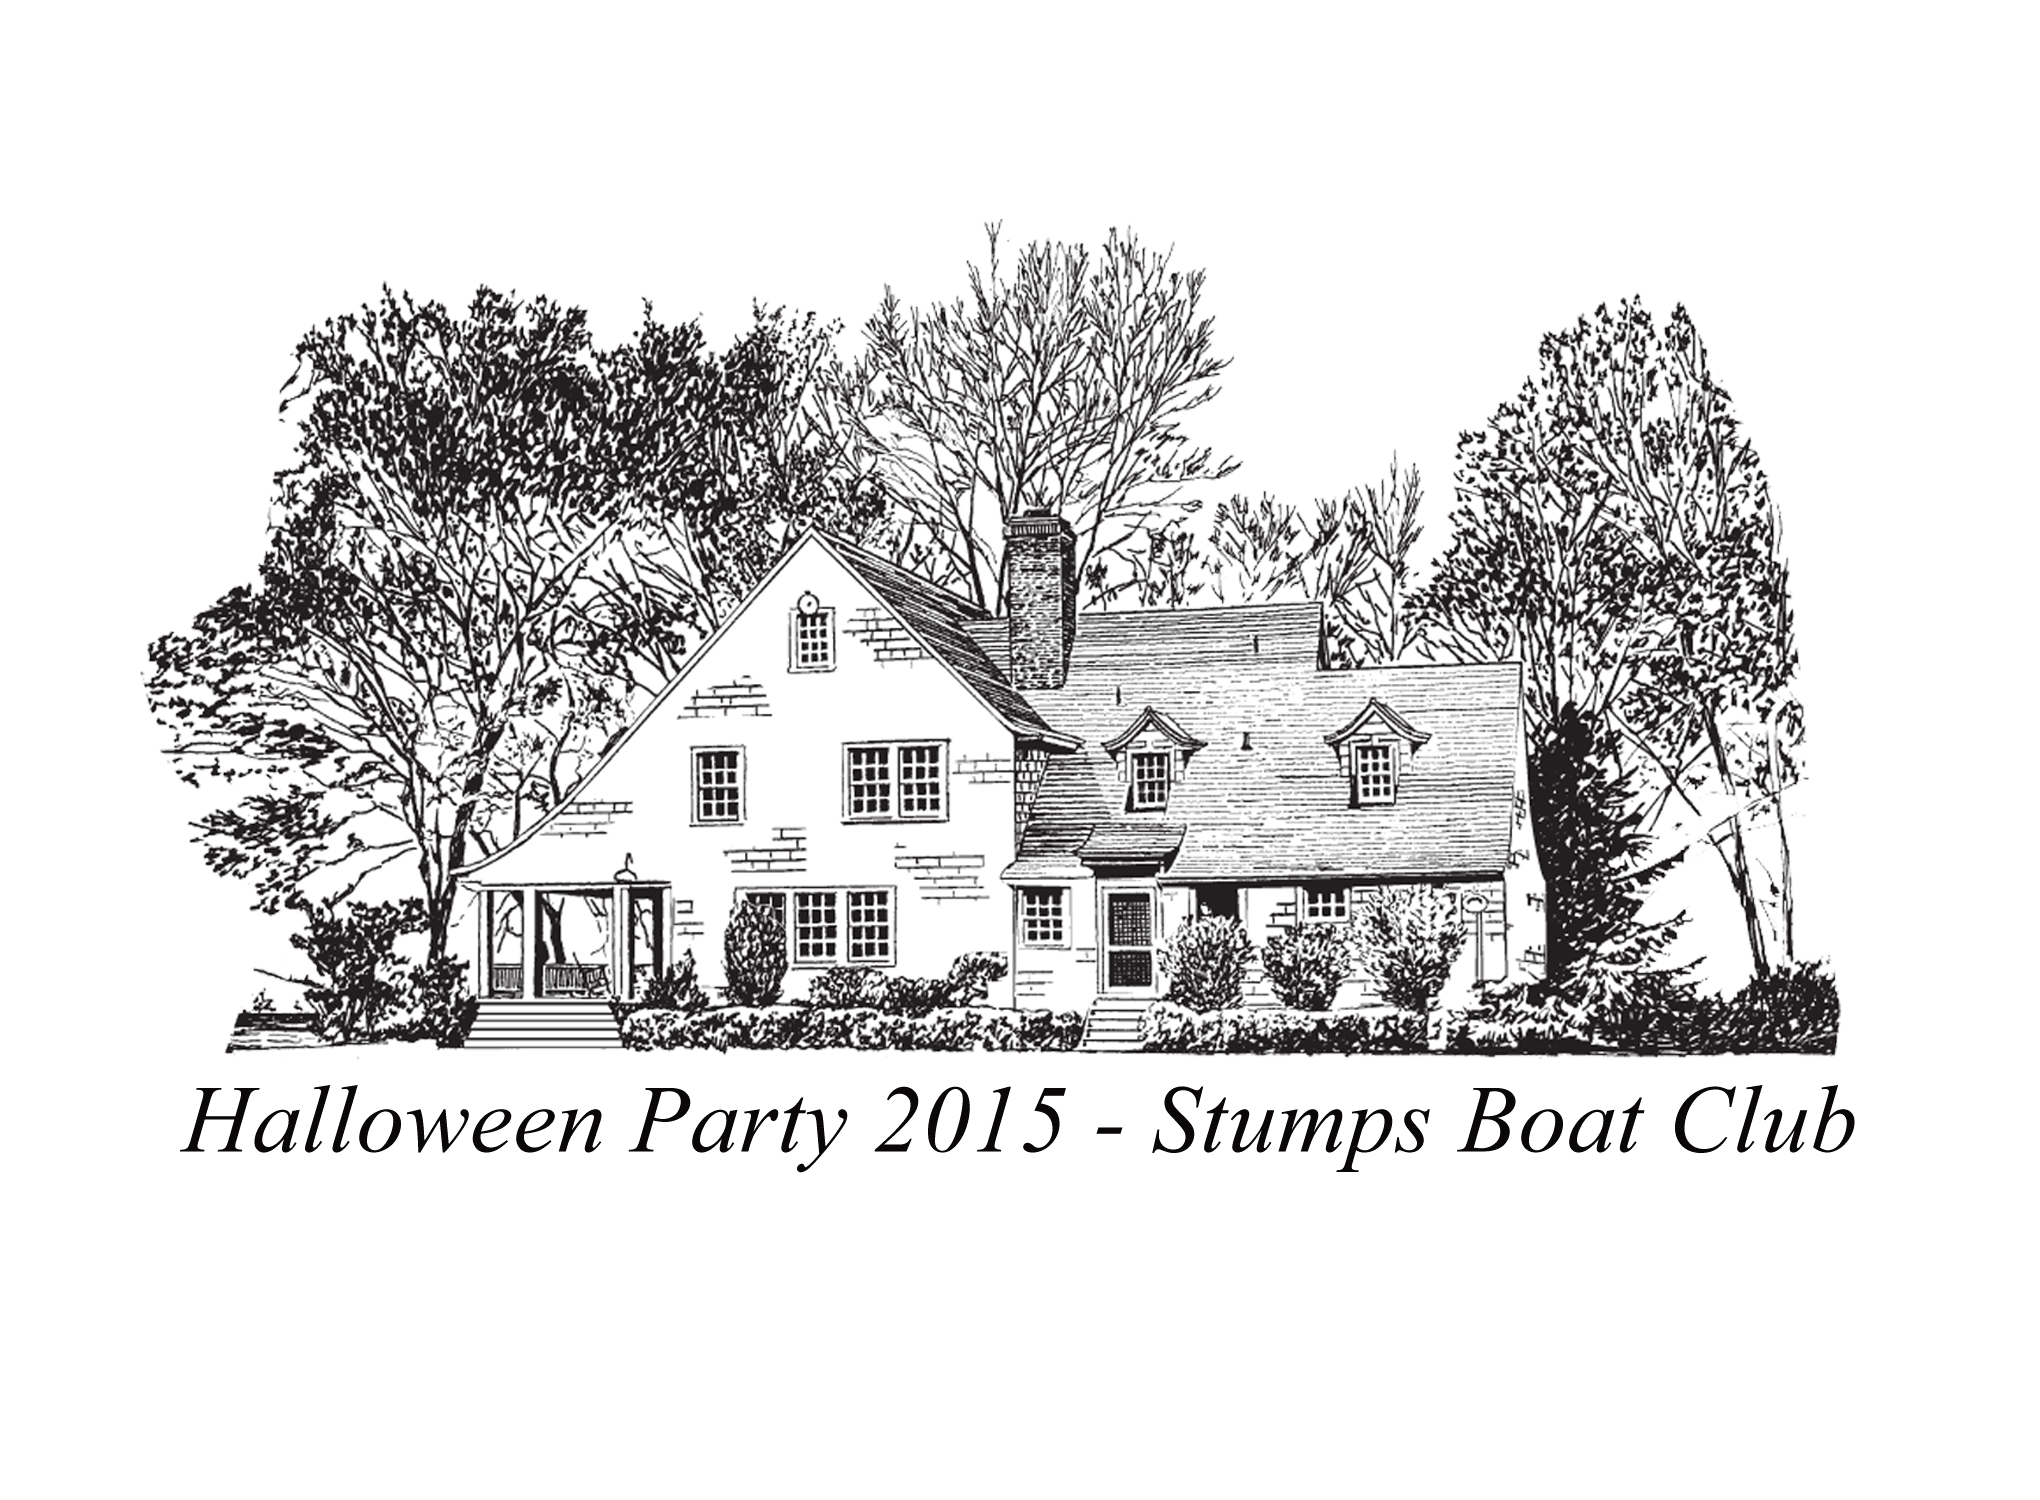
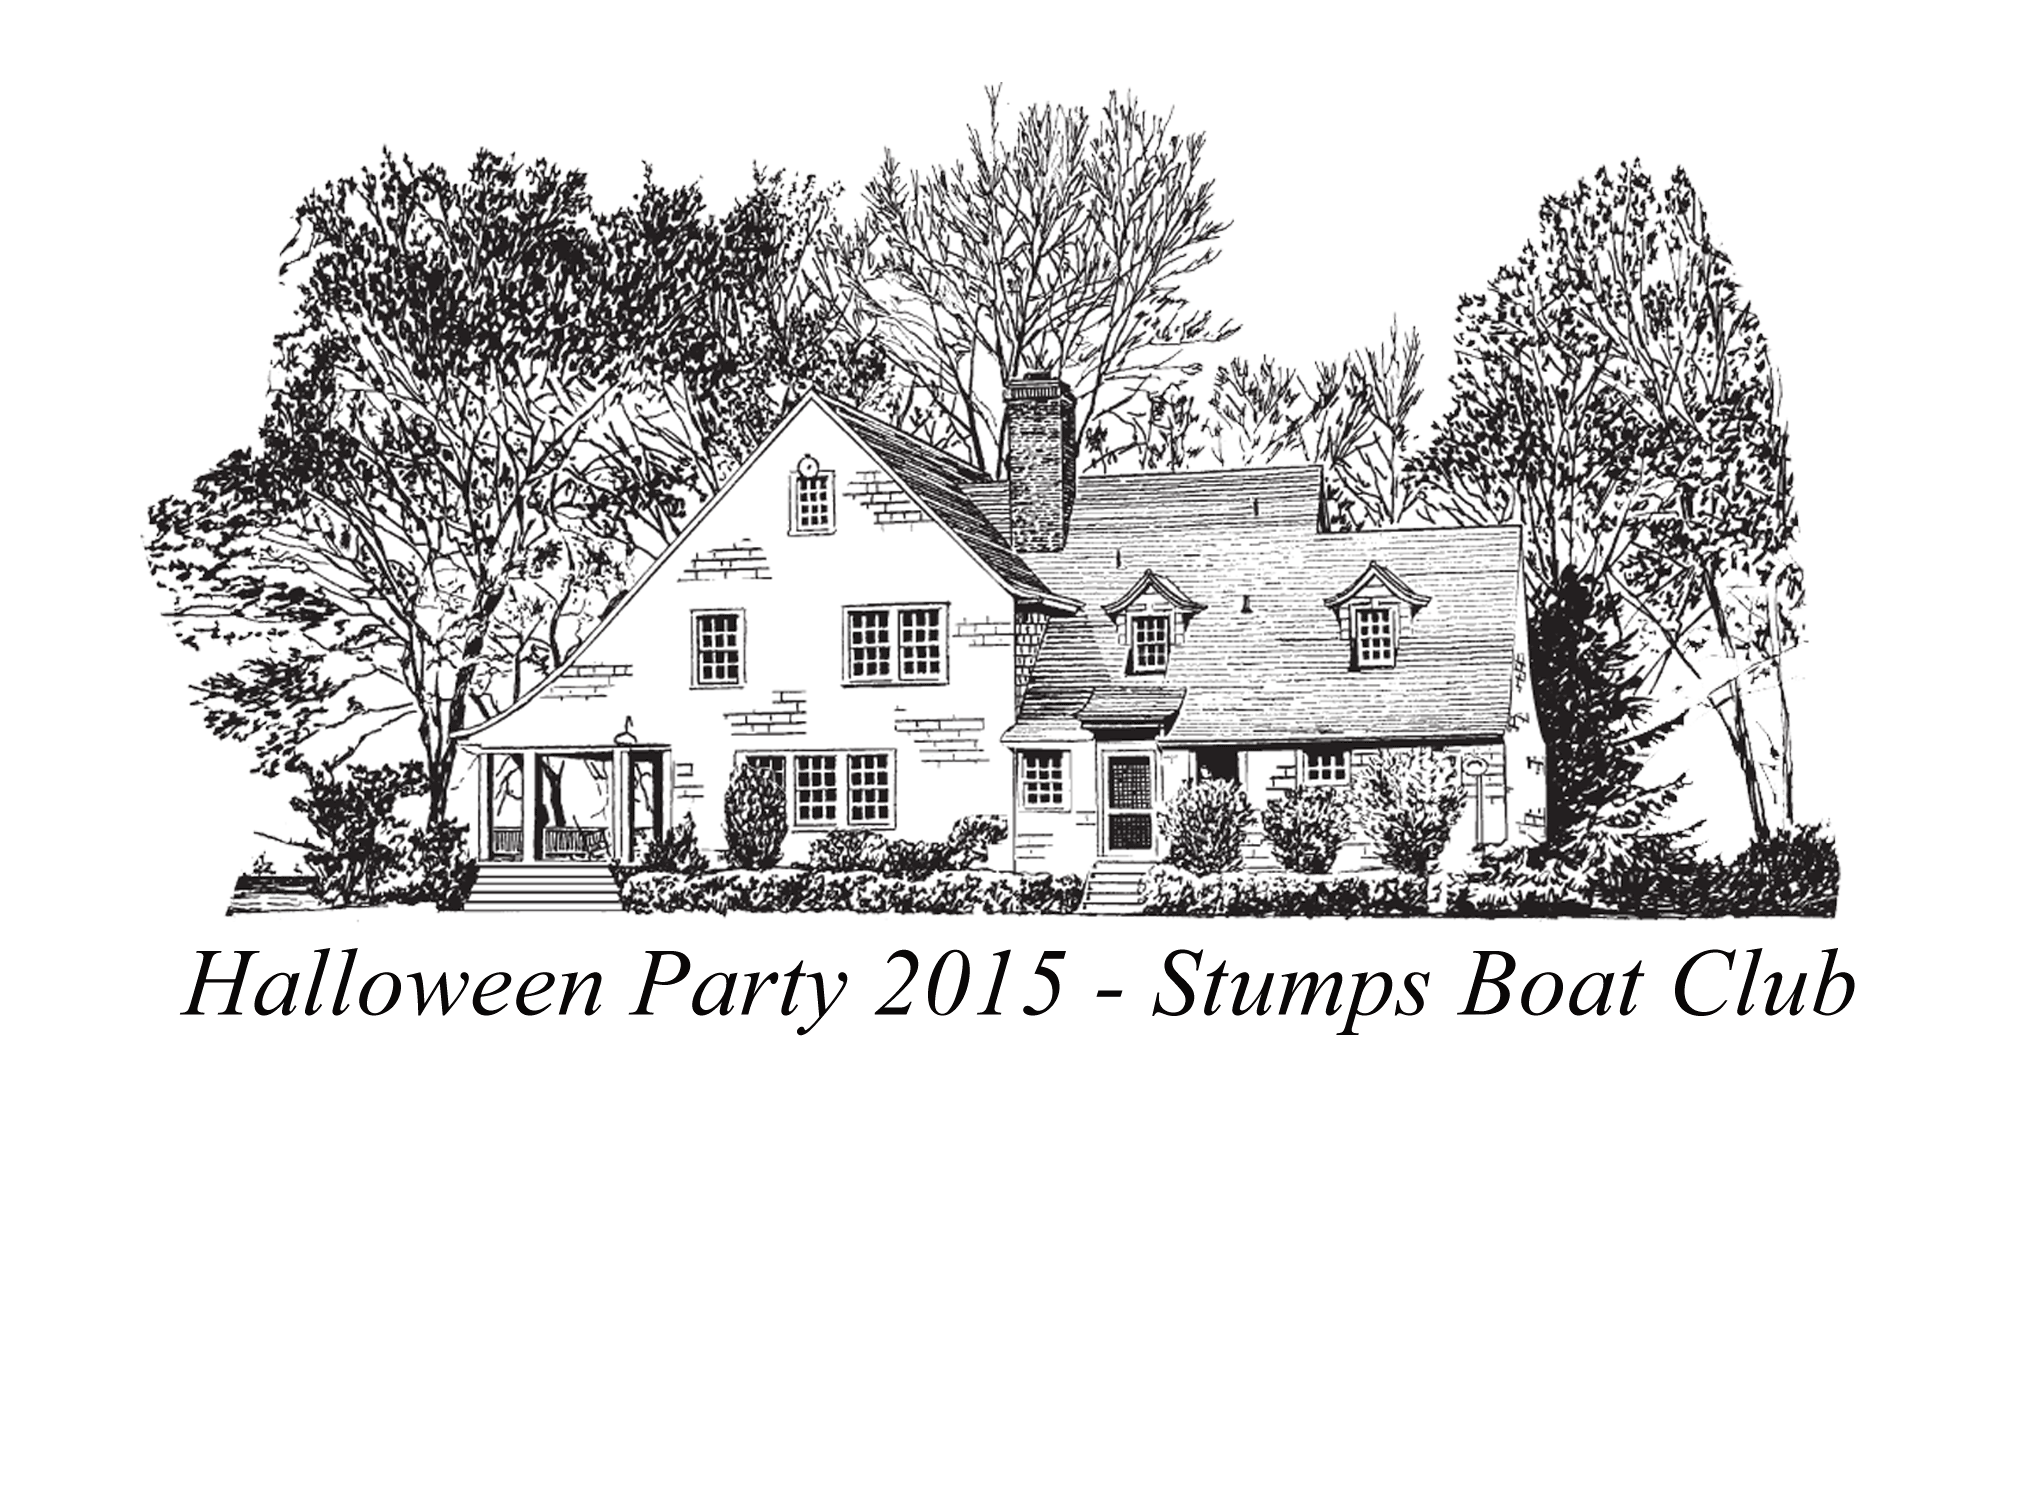
printer specific function so strips appear correctly once printed

diff --git a/includes/functions.php b/includes/functions.php
@@ -108,7 +108,7 @@ function combine_and_finish($id) {
   $combined_file = combine_photos($files);
   //add_overlay(PHOTO_PATH . 'strips/' . basename($combined_file), PHOTO_PATH . 'stripsoverlay/' . basename($combined_file), "topleft");
   add_footer(PHOTO_PATH . 'strips/' . basename($combined_file), PHOTO_PATH . 'stripsfooter/' . basename($combined_file));
-  printPhoto(PHOTO_PATH . 'stripsfooter/' . basename($combined_file));
+  printPhoto(basename($combined_file));
   echo json_encode(array(
     'photo_src' => PUBLIC_PHOTO_PATH . '/strips/' . basename($combined_file) ,
   ));
@@ -179,14 +179,35 @@ function combine_photos($files) {
   return $tmp_file;
 }
 
+function make_printer_friendly($source_file_path, $output_file_path) {
+  $shift_down = 110;
+  list($source_width, $source_height) = getimagesize($source_file_path);
+  $source_gd_image = imagecreatefromjpeg($source_file_path);
+  $image_width = $source_width;
+  $image_height = $source_height + $shift_down;
+  $image = imagecreatetruecolor($image_width, $image_height);
+  $background = imagecolorallocate($image, 255, 255, 255); // white
+  //$background = imagecolorallocate($image, 0, 0, 0); // black
+  imagefilledrectangle($image, 0, 0, $image_width, $image_height, $background);
+  imagecopy($image,$source_gd_image,0,$shift_down,0,0,$source_width,$source_height);
+
+  ob_start();
+  imagejpeg($image);
+  imagedestroy($image);
+  $image_data = ob_get_contents();
+  ob_end_clean();
+
+  file_put_contents($output_file_path, $image_data);
+}
+
 function printPhoto($file) {
-  $cmd = PRINT_CMD . " '" . $file . "'";
-  $cmd_response = shell_exec($cmd);
+  make_printer_friendly(PHOTO_PATH . 'stripsfooter/' . basename($file), PHOTO_PATH . 'printerfriendly/' . basename($file));
+  $cmd = PRINT_CMD . " '" . PHOTO_PATH . 'printerfriendly/' . basename($file) . "'";
+  return shell_exec($cmd);
 }
 
 function print_strip($file) {
-  printPhoto(PHOTO_PATH . 'stripsfooter/' . basename($file));
   echo json_encode(array(
-    'success' => true,
+    'success' => printPhoto($file),
   ));
 }
